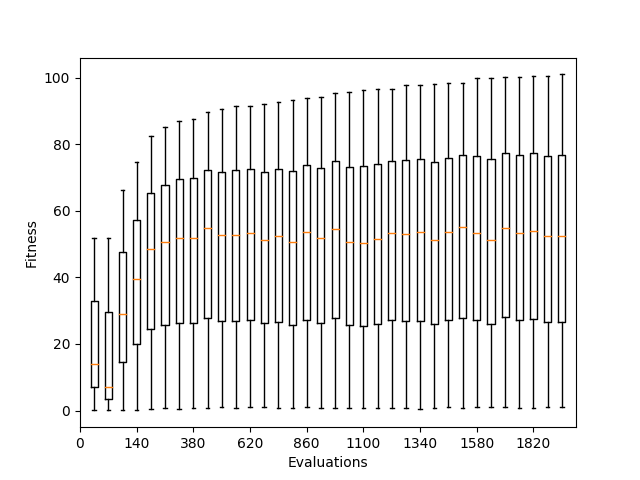
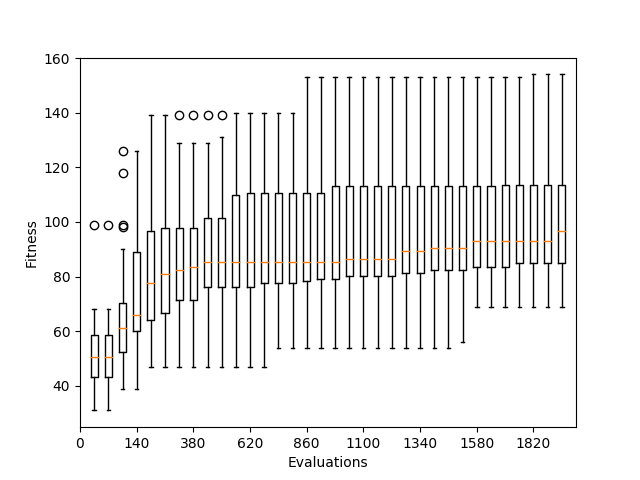
Fix fitness plot generation

diff --git a/analysis/gen_fitness_graphs.py b/analysis/gen_fitness_graphs.py
@@ -39,28 +39,17 @@ for log_file_index in range(len(log_file_paths)):
                 best_fit = float(best_fit)
 
                 if eval_num in eval_dict:
-                    eval_dict[eval_num][0] += avg_fit
-                    eval_dict[eval_num][1] += best_fit
-                    eval_dict[eval_num][2] += 1
-                    eval_dict[eval_num][3] = min(eval_dict[eval_num][3], avg_fit)
+                    eval_dict[eval_num].append(best_fit)
+
                 else:
-                    eval_dict[eval_num] = [avg_fit, best_fit, 1, ARBITRARY_LARGE_NUMBER]
+                    eval_dict[eval_num] = [best_fit]
 
         evals = []
-        avg_fits = []
-        best_fits = []
-        worst_fits = []
+        data = []
         for eval_num in sorted(eval_dict.keys()):
             evals.append(eval_num)
-            avg_fits.append(eval_dict[eval_num][0] / eval_dict[eval_num][2])
-            best_fits.append(eval_dict[eval_num][1] / eval_dict[eval_num][2])
-            worst_fits.append(eval_dict[eval_num][3] / eval_dict[eval_num][2])
-
-
-        data = []
-        for i in range(len(avg_fits)):
-            data.append([worst_fits[i], avg_fits[i], best_fits[i]])
-
+            data.append(eval_dict[eval_num])
+        
         # Plot the results
         fig, ax = plt.subplots()
 
